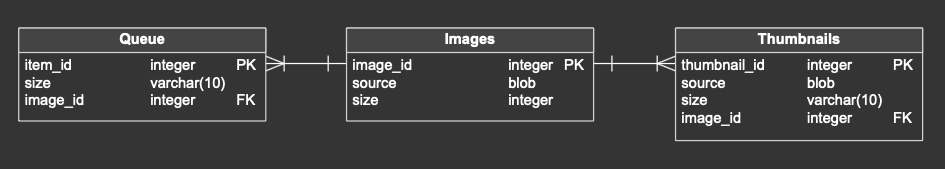
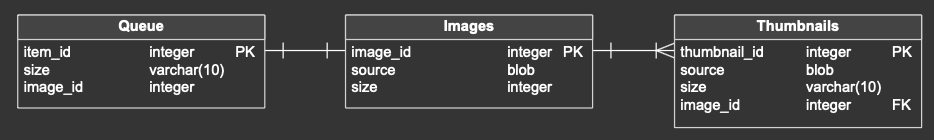
Fixed Queue

diff --git a/backend/src/main/java/pl/edu/agh/to2/backend/image/Image.java b/backend/src/main/java/pl/edu/agh/to2/backend/image/Image.java
@@ -1,9 +1,6 @@
 package pl.edu.agh.to2.backend.image;
 
-import jakarta.persistence.Entity;
-import jakarta.persistence.GeneratedValue;
-import jakarta.persistence.Id;
-import jakarta.persistence.OneToMany;
+import jakarta.persistence.*;
 import pl.edu.agh.to2.backend.queue.Queue;
 import pl.edu.agh.to2.backend.thumbnail.Thumbnail;
 
@@ -13,26 +10,25 @@ import java.util.List;
 public class Image {
     @Id
     @GeneratedValue
-    private int image_id;
+    private int imageId;
     private byte[] source;
     private int size;
-    @OneToMany
-    private List<Queue> Queue;
+    @OneToOne
+    private Queue queueItem;
     @OneToMany
     private List<Thumbnail> Thumbnails;
 
     public Image(byte[] source, int size){
         this.source = source;
         this.size = size;
-        this.Queue = new ArrayList<>();
         this.Thumbnails = new ArrayList<>();
     }
 
     public Image(){
     }
 
-    public int getImage_id(){
-        return image_id;
+    public int getImageId(){
+        return imageId;
     }
 
     public byte[] getSource() {
@@ -43,8 +39,8 @@ public class Image {
         return size;
     }
 
-    public List<Queue> getQueue(){
-        return Queue;
+    public Queue getQueueItem(){
+        return queueItem;
     }
 
     public List<Thumbnail> getThumbnails(){
@@ -52,7 +48,11 @@ public class Image {
     }
 
     public void addToQueue(Queue queueItem){
-        Queue.add(queueItem);
+        this.queueItem = queueItem;
+    }
+
+    public void removeFromQueue(){
+        this.queueItem = null;
     }
 
     public void addThumbnails(Thumbnail thumbnail){

diff --git a/backend/src/main/java/pl/edu/agh/to2/backend/queue/Queue.java b/backend/src/main/java/pl/edu/agh/to2/backend/queue/Queue.java
@@ -11,9 +11,9 @@ import java.util.List;
 public class Queue {
     @Id
     @GeneratedValue
-    private int item_id;
+    private int itemId;
     private ThumbnailSize size;
-    @ManyToOne
+    @OneToOne
     private Image image;
 
     public Queue(ThumbnailSize size, Image image){
@@ -24,8 +24,8 @@ public class Queue {
     public Queue(){
     }
 
-    public int getItem_id(){
-        return item_id;
+    public int getItemId(){
+        return itemId;
     }
 
     public ThumbnailSize getSize() {

diff --git a/backend/src/main/java/pl/edu/agh/to2/backend/thumbnail/Thumbnail.java b/backend/src/main/java/pl/edu/agh/to2/backend/thumbnail/Thumbnail.java
@@ -10,7 +10,7 @@ import pl.edu.agh.to2.backend.image.Image;
 public class Thumbnail {
     @Id
     @GeneratedValue
-    private int item_id;
+    private int thumbnailId;
     private byte[] source;
     private ThumbnailSize size;
     @ManyToOne
@@ -25,8 +25,8 @@ public class Thumbnail {
     public Thumbnail(){
     }
 
-    public int getItem_id(){
-        return item_id;
+    public int getThumbnailId(){
+        return thumbnailId;
     }
 
     public byte[] getSource() {
